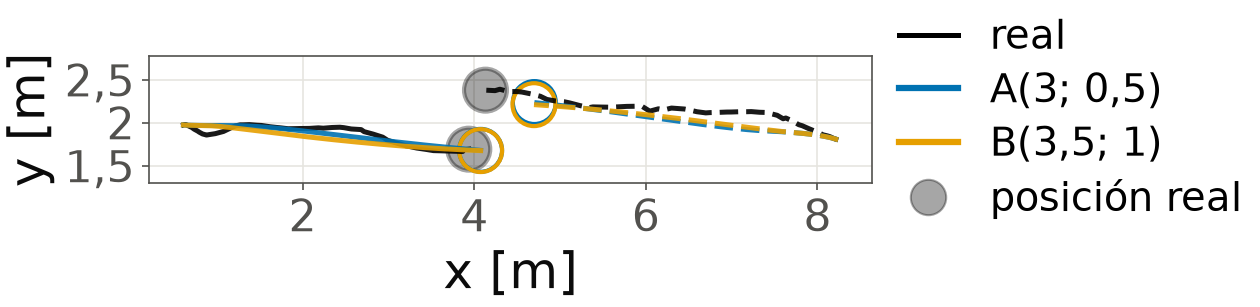
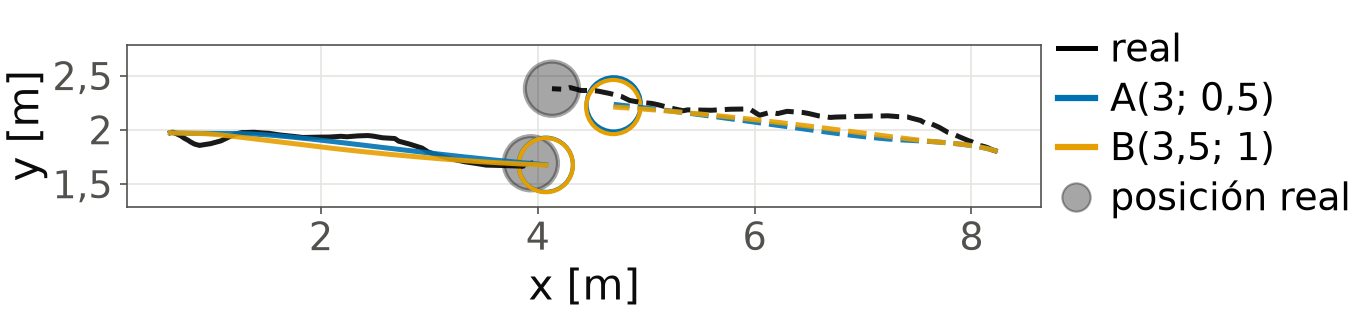
fix: leyendas y notación en la presentación (F_G, desv. est.), d13 más ancha, comentarios del motor sin referencias a analysis

Changed region(s): [[0.0, 0.0586, 0.9905, 0.9674]]

diff --git a/TP5/presentacion/presentacion_tp5.tex b/TP5/presentacion/presentacion_tp5.tex
@@ -386,6 +386,7 @@
         \item $v_d$: rapidez deseada
         \item $R$: radio del peatón
         \item $\varepsilon_{ij} = |\mathbf{x}_j - \mathbf{x}_i| - 2R$: superposición si $< 0$
+        \item $\mathbf{F}_G$: fuerza de contacto
         \item $\hat{\mathbf{n}}$: versor de $j$ a $i$
         \item $\hat{\mathbf{t}}$: tangencial
         \item $k_n$, $k_t$: rigidez normal y tangencial
@@ -432,7 +433,7 @@
   \begin{itemize}\footnotesize\setlength{\itemsep}{1pt}
     \item \textbf{Esquema:} punteado, recorrido de $j$ visto desde $i$ (velocidad $\mathbf{w}$); $P$, máximo acercamiento, en $t^*$; círculo, $\rho$ alrededor de $i$
     \item $t_a$: horizonte de anticipación; $\rho$: espacio personal entre centros ($\rho = \rho_i + R$ de la teórica). Si deja de preverse el choque, vuelve a $\mathbf{x}_f$
-    \item Diferencia con la Teórica 7: la velocidad de $i$ en la predicción es $v_d\,\mathbf{e}_t$, no $\mathbf{v}_i + \mathbf{F}_g\,\Delta t$
+    \item Diferencia con la Teórica 7: la velocidad de $i$ en la predicción es $v_d\,\mathbf{e}_t$, no $\mathbf{v}_i + \mathbf{F}_G\,\Delta t$
   \end{itemize}
 \end{frame}
 
@@ -598,10 +599,10 @@
 
 % 14 -- Animaciones (punto a)
 \begin{frame}{Animaciones: sin capa, A y B}
-      \par{\footnotesize Sin capa y A(3; 0,5) [Evento 16]}\par\vspace{1mm}
-      \videooimagen{figuras/anim-sin-capa-vs-A.png}{2.35cm}{\animacionSinCapaURL}{Sin capa y A}
-      \par\vspace{3mm}{\footnotesize A y B con su mejor par de ECM 1 [Evento 16]}
-      \videooimagen{figuras/anim-A-B.png}{2.35cm}{\animacionURL}{A y B}
+      \par{\footnotesize Sin capa y A(3; 0,5) [Evento 16]}\par
+      \videooimagen{figuras/anim-sin-capa-vs-A.png}{2.5cm}{\animacionSinCapaURL}{Sin capa y A}
+      \par\vspace{1mm}{\footnotesize A y B con su mejor par de ECM 1 [Evento 16]}\par
+      \videooimagen{figuras/anim-A-B.png}{2.5cm}{\animacionURL}{A y B}
 \end{frame}
 
 % 15 -- Observable primario en el tiempo
@@ -614,8 +615,8 @@
     \small\renewcommand{\arraystretch}{1.15}
     \begin{tabular}{@{}lcc@{}}
       \hline
-      & Distancia mínima $D$ (m) & Corrimiento $c$ (s) \\ \hline
-      Real & 0,68 & --- \\
+      & $D$ (m) & Corrimiento $c$ (s) \\ \hline
+      Real ($D^{\mathrm{exp}}$) & 0,68 & --- \\
       A(3; 0,5) & 0,61 & $+0{,}26$ \\
       B(3,5; 1) & 0,56 & $+0{,}28$ \\ \hline
     \end{tabular}
@@ -718,7 +719,7 @@
     \item \textbf{Objetivo final:} ¿$\mathbf{x}_f$ y $v_d$ de la ventana común, o el final del propio tramo de cada peatón?
     \item \textbf{Retraso:} ¿es esperable que las capas lleguen tarde al mínimo?
     \item \textbf{$\rho$ y B:} B con $\rho = 0{,}9$ (cerca del máximo de las distancias mínimas reales, 0,92 m) ¿es un criterio razonable para fijar $\rho$?
-    \item \textbf{Predicción:} ¿vale usar $v_d\,\mathbf{e}_t$ como velocidad de $i$ en vez de $\mathbf{v}_i + \mathbf{F}_g\,\Delta t$ (Teórica 7)?
+    \item \textbf{Predicción:} ¿vale usar $v_d\,\mathbf{e}_t$ como velocidad de $i$ en vez de $\mathbf{v}_i + \mathbf{F}_G\,\Delta t$ (Teórica 7)?
     \item \textbf{$v_d$:} ¿constante, o seguir el perfil de rapidez real? Los peatones de la derecha van $+0{,}21$ m/s sobre $v_d$ antes del mínimo y $-0{,}18$ m/s después (medianas)
     \item \textbf{Regla de lado:} en A acierta el lado en 14 de 19 eventos, igual que ``siempre a la derecha''. ¿Es aceptable?
   \end{itemize}

diff --git a/TP5/scripts/animation/presentation_videos.py b/TP5/scripts/animation/presentation_videos.py
@@ -64,7 +64,7 @@ plt.rcParams.update({"font.size": 22, "axes.labelsize": 24, "legend.fontsize": 2
 # Rótulo de cada corrida en la leyenda (con el par: la diapositiva no lo repite)
 LABELS = {"sin capa": "sin capa", "A": "A(3; 0,5)", "B": "B(3,5; 1)"}
 FRAME_SIZE = (6.6, 3.4)     # pulgadas: a ~5,7 cm de ancho en la diapositiva, 20–24 pt quedan en ~7–9 pt
-FRAME_SIZE_COMPACT = (8.4, 2.05)     # lámina 13: rango de y ajustado y leyenda a la derecha; el lienzo del MP4 sigue al PNG
+FRAME_SIZE_COMPACT = (9.1, 2.08)     # lámina 13: rango de y ajustado y leyenda a la derecha; el lienzo del MP4 sigue al PNG
 
 
 def style(ax):
@@ -120,11 +120,16 @@ class Overlay:
         handles += [Line2D([], [], color=COLORS[n], lw=3, label=LABELS[n]) for n in runs]
         handles += [Line2D([], [], ls="none", marker="o", ms=17, color=COLORS["real"], alpha=0.35, label="posición real")]
         if compact:
-            # A la derecha del eje, fuera del área del gráfico, una entrada por fila, letra 19 pt (≤ ticks, 21 pt). Así el
-            # área del gráfico usa toda la altura de la figura (la leyenda ya no ocupa una franja debajo)
-            ax.legend(handles=handles, loc="center left", bbox_to_anchor=(1.02, 0.5), borderaxespad=0, ncol=1, frameon=False,
-                      fontsize=19, handlelength=1.5, borderpad=0.3, labelspacing=0.35)
-            self.clock = ax.text(1.0, 1.03, "", transform=ax.transAxes, ha="right", va="bottom", fontsize=19, color=INK)
+            # A la derecha del eje, fuera del área del gráfico, una entrada por fila. Letra y muestras chicas (18 pt: ≈ 8,5 pt
+            # en la lámina) para que la leyenda ocupe poco ancho: con escala 1:1, el alto del eje y sale del ancho que le
+            # queda al gráfico. Ticks y rótulos también un poco más chicos (siguen ≥ 8 pt en la lámina)
+            ax.legend(handles=handles, loc="center left", bbox_to_anchor=(1.01, 0.5), borderaxespad=0, ncol=1, frameon=False,
+                      fontsize=18, handlelength=1.0, handletextpad=0.4, borderpad=0.2, labelspacing=0.3, markerscale=0.8)
+            ax.tick_params(labelsize=18)
+            ax.xaxis.label.set_size(20)
+            ax.yaxis.label.set_size(20)
+            ax.yaxis.labelpad = 2
+            self.clock = ax.text(1.0, 1.03, "", transform=ax.transAxes, ha="right", va="bottom", fontsize=18, color=INK)
         else:
             ax.legend(handles=handles, loc="upper right", ncol=2, frameon=True, framealpha=0.95, fontsize=20,
                       handlelength=1.5, columnspacing=0.9, borderpad=0.3)

diff --git a/TP5/src/main/java/ar/edu/itba/sds/tp5/Main.java b/TP5/src/main/java/ar/edu/itba/sds/tp5/Main.java
@@ -23,9 +23,9 @@ import java.util.Map;
 import java.util.Set;
 
 /**
- * Motor de la entrega: simula cada evento y escribe su trayectoria (evento_XX.txt). No calcula observables: ECM,
- * distancia mínima, contactos y calibración están en el paquete analysis (ar.edu.itba.sds.tp5.analysis.AnalysisMain),
- * que no va al ZIP. Las opciones y la corrida de un evento son públicas para que el análisis las use igual.
+ * Motor de la entrega: simula cada evento y escribe su trayectoria (evento_XX.txt). No calcula observables (ECM,
+ * distancia mínima, contactos, calibración): se obtienen después, a partir de la salida. Las opciones y la corrida de
+ * un evento son públicas para poder reutilizarlas.
  */
 public final class Main {
     /** Frames del ajuste de la velocidad inicial (D12). */
@@ -36,7 +36,7 @@ public final class Main {
     private static final Set<String> COMMON = Set.of("data", "dt-div", "v0-frames", "delta-a", "integrator", "rho", "frontal-deg", "f-tie", "f-horizon", "f-gate", "f-distance",
             "trim", "trim-deg", "trim-persist", "trim-half", "trim-target", "trim-shared", "trim-shared-x");
 
-    /** Opciones comunes, para el texto de ayuda del motor y del análisis. */
+    /** Opciones comunes, para el texto de ayuda. */
     public static final String OPTIONS_HELP = """
             Parámetros: A (p1 = t_a, p2 = l), B (p1 = t_a, p2 = k), F (p1 = A_p, p2 = B_p)
             Opciones: [--data data] [--dt-div 64] [--v0-frames 5] [--delta-a 0.1] [--rho 0.9] [--f-tie metric|angular] [--frontal-deg 5] [--f-horizon Infinity] [--f-gate on|off] [--f-distance centers|edges] [--integrator beeman|verlet]

diff --git a/TP5/src/main/java/ar/edu/itba/sds/tp5/engine/Simulation.java b/TP5/src/main/java/ar/edu/itba/sds/tp5/engine/Simulation.java
@@ -72,9 +72,8 @@ public final class Simulation {
         for (long step = 0; ; step++) {
             double[] r = stepper.position();
             double t = step * dt;
-            // Distancia mínima, contactos, longitud recorrida y conmutaciones de la capa no se calculan acá: son
-            // observables de análisis (analysis.ContactMonitor y analysis.MotionMonitor, con el StepObserver, en cada
-            // paso). Este lazo solo simula y guarda la salida.
+            // Este lazo solo simula y guarda la salida. Los observables (distancia mínima, contactos, longitud recorrida,
+            // conmutaciones de la capa) no se calculan acá; quien los necesite paso a paso puede pasar un StepObserver.
             for (int i = 0; i < n; i++) {
                 if (active[i] && Math.hypot(agents[i].targetX() - r[2 * i], agents[i].targetY() - r[2 * i + 1]) <= params.deltaA()) {
                     active[i] = false;

diff --git a/TP5/scripts/graph_gen/presentation_figures.py b/TP5/scripts/graph_gen/presentation_figures.py
@@ -655,7 +655,7 @@ def m1_best(layers="AB", fname="M1-mejores-pares.pdf"):
         ax.yaxis.set_major_formatter(COMMA)
         ax.yaxis.set_minor_formatter(matplotlib.ticker.NullFormatter())
         fig.legend(handles=[Line2D([], [], ls="none", marker="o", ms=11, color=MUTED, mec=INK, label="ECM 1"),
-                           Line2D([], [], ls="-", marker="o", ms=11, mfc="white", mec=MUTED, color=MUTED, mew=2, label="val. ECM 1 ± DE"),
+                           Line2D([], [], ls="-", marker="o", ms=11, mfc="white", mec=MUTED, color=MUTED, mew=2, label="val. ECM 1 ± desv. est."),
                            Line2D([], [], ls="none", marker="D", ms=10, color=MUTED, mec=INK, label="ECM 2")],
                   loc="outside upper center", ncol=3, frameon=False, fontsize=16, handletextpad=0.3, columnspacing=1.0)     # fuera del eje, arriba: no toca ningún punto
         save(fig, fname)

diff --git a/TP5/src/main/java/ar/edu/itba/sds/tp5/io/OutputFiles.java b/TP5/src/main/java/ar/edu/itba/sds/tp5/io/OutputFiles.java
@@ -11,7 +11,7 @@ import java.util.Locale;
 
 /**
  * Salida del motor: la trayectoria de cada evento. Sin marcas de tiempo, para que dos corridas iguales den archivos
- * idénticos. Los observables (ECM, distancia mínima, contactos) los escribe el análisis (analysis.EcmReport), no el motor.
+ * idénticos. El motor no escribe observables (ECM, distancia mínima, contactos).
  */
 public final class OutputFiles {
     private OutputFiles() { }
